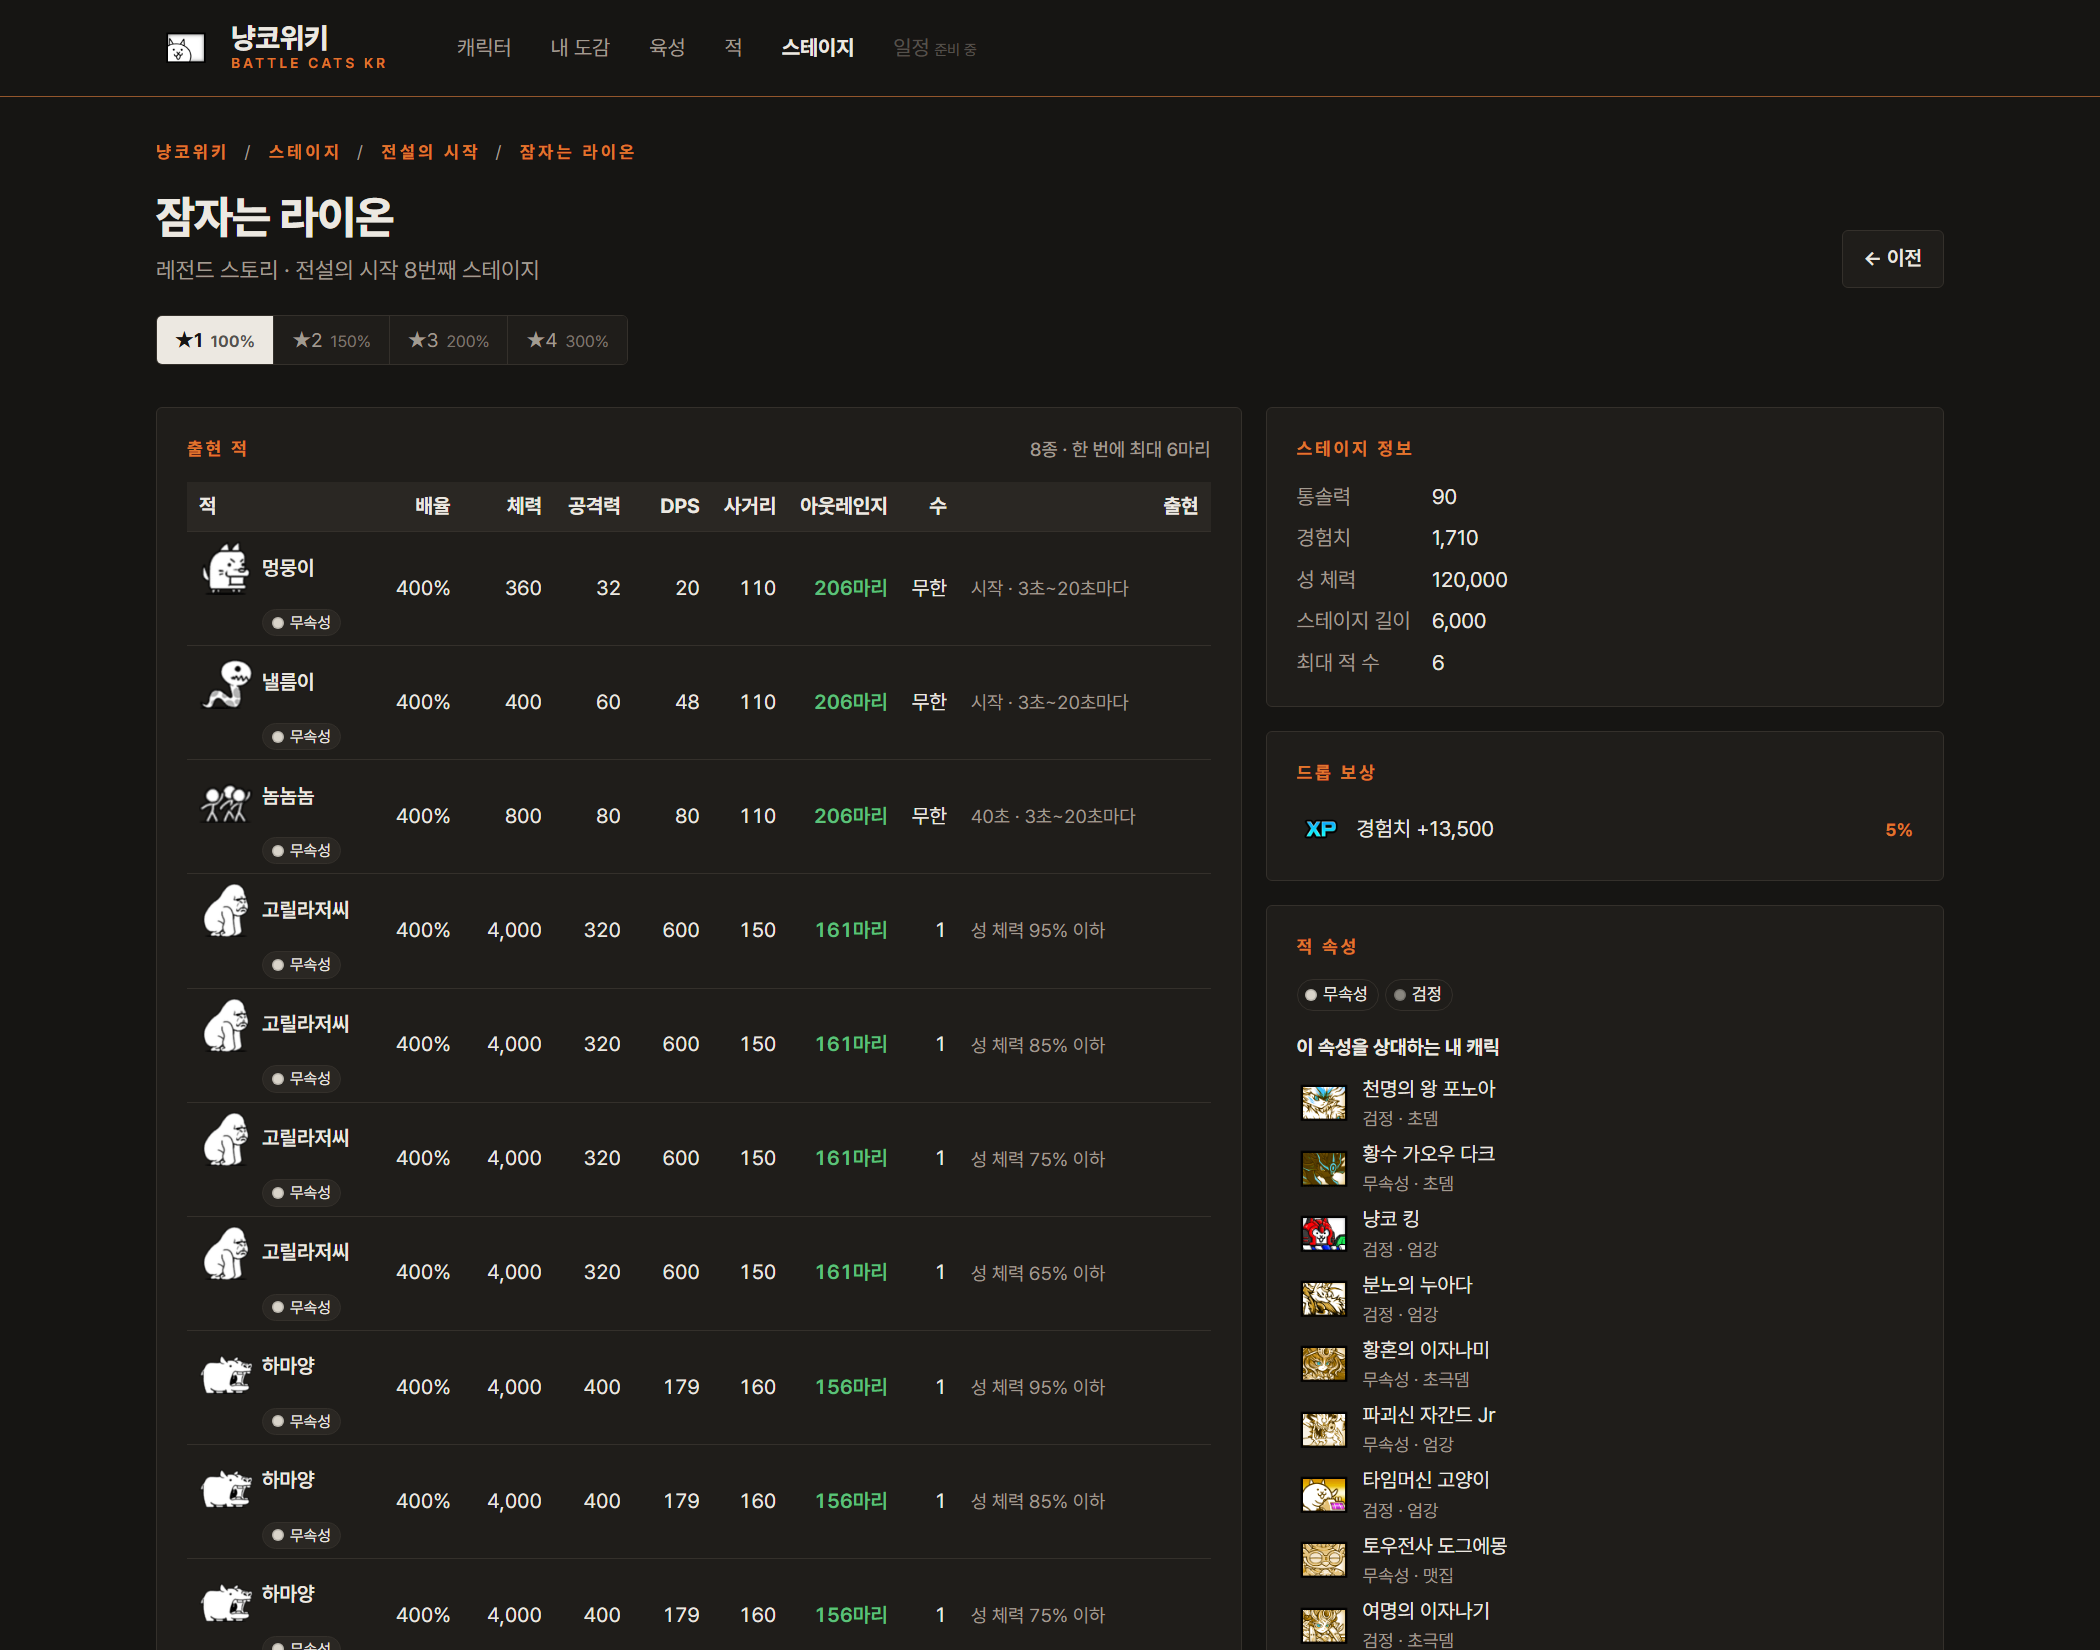
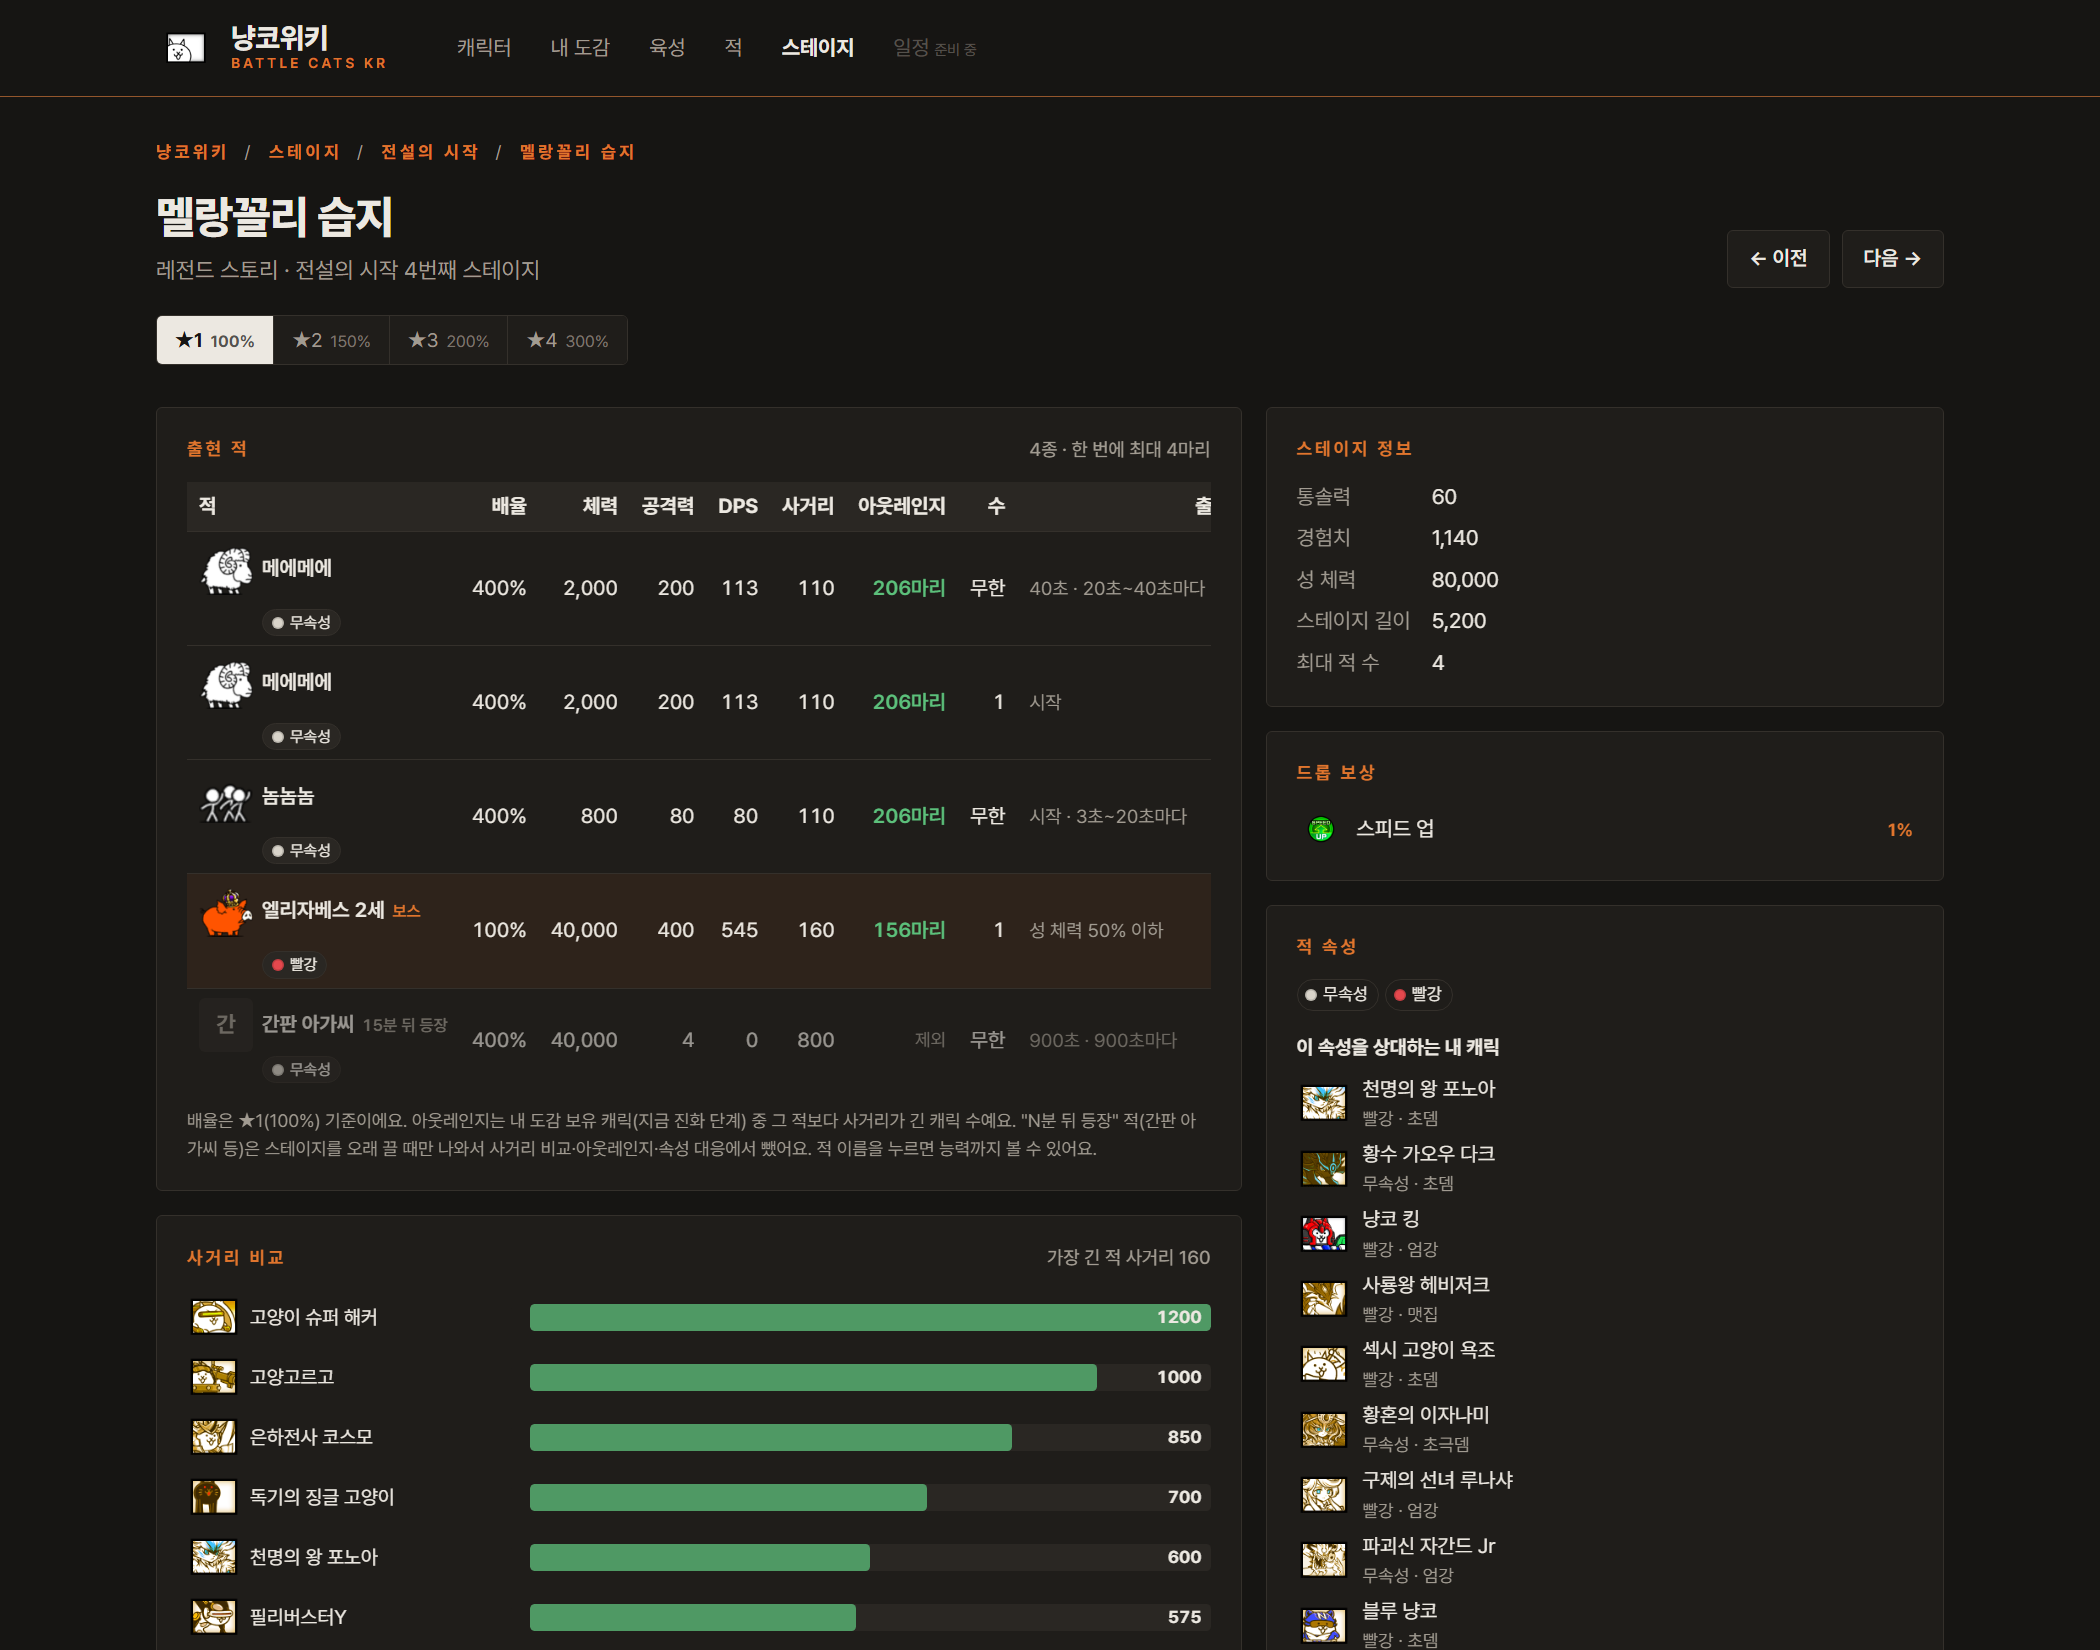
v3.0 피드백: 아이콘 없는 적, 오래 기다려야 나오는 적, 주는 돈 정수
- 아이콘 없는 적(간판 아가씨 #21, 이름 없는 적 #747 — 게임 팩에 enemy_icon 자체가 없음)은 이름 첫 글자로 자리 채움
- 900초(27000F) 이상 기다렸다 나오는 적(간판 아가씨 4,061곳, 블랙쿠마 96곳 등 4,152개 스테이지)은 실제 게임 데이터(냥코DB와 동일).
  출현 적 표엔 남기되 "N분 뒤 등장"으로 흐리게 표시하고, 사거리 비교·아웃레인지·가장 긴 적 사거리·속성 대응 계산에서는 뺌
- 적 상세 주는 돈을 정수로 (보물 최대 ×3.95, 게임처럼 버림)
- README 스테이지 스크린샷 다시 찍음

diff --git a/docs/js/stage.js b/docs/js/stage.js
@@ -13,6 +13,9 @@ const loadUnits = () => unitsPromise ??= fetch("data/units.json").then(r => r.js
 const PREFIX = { 3: "MS", 20: "Z", 21: "Z", 22: "Z", 23: "Z", 0: "N", 13: "NA", 34: "ND", 1: "S", 2: "C", 24: "A", 27: "CA", 25: "H", 31: "Q", 4: "RE", 14: "B",
                  7: "V", 36: "SR", 37: "G", 30: "DM", 33: "L", 6: "T", 11: "R", 12: "M" };
 const codeOf = mid => PREFIX[Math.floor(mid / 1000)];
+// 900초(27000F) 이상 기다렸다 나오는 적 (간판 아가씨 등 시간 끌기 방지용): 출현 적 표엔 남기고
+// 사거리 비교·아웃레인지·가장 긴 적 사거리·속성 대응 계산에서는 뺀다
+const LATE_F = 27000;
 const sec = f => { const s = (f / 30).toFixed(2).replace(/\.?0+$/, ""); return `${s}초`; };
 const num = n => Math.floor(n).toLocaleString();
 const failed = (root, what) => { root.innerHTML = `<div class="empty">${what} 데이터를 불러오지 못했어요. 새로고침해 주세요.</div>`; };
@@ -122,6 +125,8 @@ function paint(root, idx, mid, m, s, byId) {
              dps: cyc ? Math.floor(atk * 30 / cyc) : null };
   });
   const enemies = [...new Map(rows.filter(r => r.e).map(r => [r.eid, r.e])).values()];
+  const inPlay = [...new Map(rows.filter(r => r.e && r.first < LATE_F).map(r => [r.eid, r.e])).values()];
+  const hasLate = rows.some(r => r.first >= LATE_F);
   const traits = [...new Set(enemies.flatMap(e => e.traits))];
   const pctText = r => r.hpPct === r.atkPct ? `${num(r.hpPct)}%` : `체력 ${num(r.hpPct)}% · 공격 ${num(r.atkPct)}%`;
   const spawn = r => {
@@ -140,15 +145,15 @@ function paint(root, idx, mid, m, s, byId) {
       <div>
         <div class="panel"><h2>출현 적 <span class="ctl">${enemies.length}종 · 한 번에 최대 ${s.max}마리</span></h2>
           <div class="table-wrap"><table class="en-table"><thead><tr><th>적</th><th>배율</th><th>체력</th><th>공격력</th><th>DPS</th><th>사거리</th><th title="내 도감 보유 캐릭 중 이 적보다 사거리가 긴 캐릭 수">아웃레인지</th><th>수</th><th>출현</th></tr></thead><tbody>
-          ${rows.map(r => `<tr class="${r.boss ? "boss" : ""}">
-            <td class="en-name"><a href="#/enemy/${r.eid}">${enemyIcon(r.e, "sm")}<span>${esc(r.e?.name ?? `적 #${r.eid}`)}${r.boss ? `<em>보스</em>` : ""}${r.isBase ? `<em>성</em>` : ""}</span></a>
+          ${rows.map(r => `<tr class="${r.boss ? "boss" : ""}${r.first >= LATE_F ? " late" : ""}">
+            <td class="en-name"><a href="#/enemy/${r.eid}">${enemyIcon(r.e, "sm")}<span>${esc(r.e?.name ?? `적 #${r.eid}`)}${r.boss ? `<em>보스</em>` : ""}${r.isBase ? `<em>성</em>` : ""}${r.first >= LATE_F ? `<em class="late-tag">${Math.round(r.first / 1800)}분 뒤 등장</em>` : ""}</span></a>
               ${r.e?.traits.length ? `<span class="trs">${r.e.traits.map(t => `<span class="tr mini" style="--c:var(--tr-${t})">${t}</span>`).join("")}</span>` : ""}</td>
             <td>${pctText(r)}</td><td>${num(r.hp)}</td><td>${num(r.atk)}</td><td>${r.dps == null ? "-" : num(r.dps)}</td>
             <td>${r.e ? r.e.range + (r.e.ld ? `<small> (${Math.min(r.e.ld[0], r.e.ld[0] + r.e.ld[1])}~${Math.max(r.e.ld[0], r.e.ld[0] + r.e.ld[1])})</small>` : "") : "-"}</td>
-            <td class="outr" data-r="${r.e?.range ?? 0}">-</td>
+            ${r.first >= LATE_F ? `<td class="skip" title="오래 기다려야 나오는 적이라 사거리 비교에서 뺐어요">제외</td>` : `<td class="outr" data-r="${r.e?.range ?? 0}">-</td>`}
             <td>${r.count === 0 ? "무한" : r.count}</td><td class="spawn">${spawn(r)}</td></tr>`).join("")}
           </tbody></table></div>
-          <p class="note">배율은 ${m.stars.length > 1 ? `★${st.star + 1}(${starPct}%)` : "기본"} 기준이에요. 아웃레인지는 내 도감 보유 캐릭(지금 진화 단계) 중 그 적보다 사거리가 긴 캐릭 수예요. 적 이름을 누르면 능력까지 볼 수 있어요.</p>
+          <p class="note">배율은 ${m.stars.length > 1 ? `★${st.star + 1}(${starPct}%)` : "기본"} 기준이에요. 아웃레인지는 내 도감 보유 캐릭(지금 진화 단계) 중 그 적보다 사거리가 긴 캐릭 수예요.${hasLate ? " \"N분 뒤 등장\" 적(간판 아가씨 등)은 스테이지를 오래 끌 때만 나와서 사거리 비교·아웃레인지·속성 대응에서 뺐어요." : ""} 적 이름을 누르면 능력까지 볼 수 있어요.</p>
         </div>
         <div class="panel" id="rangeCmp"><h2>사거리 비교 <span class="ctl">이 스테이지 적 vs 내 캐릭</span></h2><div class="empty">불러오는 중…</div></div>
       </div>
@@ -170,7 +175,7 @@ function paint(root, idx, mid, m, s, byId) {
     </div>`;
   document.title = `${s.n} - 냥코위키`;
   root.querySelectorAll("[data-star]").forEach(b => b.onclick = () => { st.star = +b.dataset.star; paint(root, idx, mid, m, s, byId); });
-  paintMine(root, rows, enemies, traits);
+  paintMine(root, rows, inPlay, [...new Set(inPlay.flatMap(e => e.traits))]);
 }
 
 // 내 캐릭(내 도감 보유, 지금 진화 단계)의 사거리·속성 대응 — 내 도감이 비어 있으면 안내만

diff --git a/docs/js/enemy.js b/docs/js/enemy.js
@@ -19,8 +19,10 @@ const num = n => Math.floor(n).toLocaleString();
 const f32 = Math.fround;
 // 냥코DB(battlecats-db.com) 적 번호 = 적 ID + 2
 export const dbEnemyUrl = id => `https://battlecats-db.com/enemy/${String(id + 2).padStart(3, "0")}.html`;
+// 아이콘이 게임 데이터에 없는 적(간판 아가씨 등)은 이름 첫 글자로 자리를 채운다
 export const enemyIcon = (e, cls = "") => e?.icon
-  ? `<img class="eicon ${cls}" src="icons/enemy/${e.id}.png" alt="" loading="lazy">` : `<span class="eicon ph ${cls}"></span>`;
+  ? `<img class="eicon ${cls}" src="icons/enemy/${e.id}.png" alt="" loading="lazy">`
+  : `<span class="eicon ph ${cls}" aria-hidden="true">${esc((e?.name || "?").replace(/^이름 없는 적 /, "")[0])}</span>`;
 
 // 배율 적용 (BCU Entity / AtkModelEntity): 체력 = trunc(기본 × 배율), 공격력 = round(기본 × 배율). 배율은 float
 export const enemyHp = (e, pct) => Math.trunc(f32(e.hp * f32(pct / 100)));
@@ -104,7 +106,8 @@ function paint(root, e) {
   const cycleF = enemyCycle(e), tbaF = e.tba * 2;
   const longPre = Math.max(...e.pre), postF = e.anim ? e.anim - longPre : null;
   const dps = cycleF ? Math.floor(total * 30 / cycleF) : null;  // 적 DPS는 버림 (냥코DB·나무위키 적 문서와 같음)
-  const money = v => (Math.round(v * 100) / 100).toLocaleString();
+  // 주는 돈: 보물·연구 최대 ×3.95, 게임처럼 정수 버림 (BCU EEnemy: money = (int)(money + 배수 × 기본))
+  const money = v => Math.floor(v + 1e-9).toLocaleString();
   const F = f => f == null ? "-" : `${num(f)}<span> (${sec(f)})</span>`;
   const ldText = ([a, w]) => `${Math.min(a, a + w)}~${Math.max(a, a + w)}`;
   const multi = hits.length > 1;
@@ -150,7 +153,7 @@ function paint(root, e) {
             <div><small>후딜F</small><b>${F(postF)}</b></div>
             <div><small>넉백당 체력</small><b>${num(hp / Math.max(e.kb, 1))}</b></div>
           </div>
-          <details class="calc-note"><summary>계산 기준</summary><p class="note">스테이지마다 적 배율(%)이 달라요. 체력 = 기본 체력 × 체력 배율, 공격력 = 기본 공격력 × 공격력 배율. F는 프레임(30F = 1초), 공격빈도 = 마지막 타 선딜 + max(공격간격 − 1, 후딜), DPS = 공격력 ÷ 공격빈도. 주는 돈은 보물·연구 최대(×3.95) 기준이에요. 에이리언은 크리스탈을 다 모은 기준이라, 덜 모았으면 별 없는 에이리언은 최대 7배, 별 에이리언은 최대 16배까지 더 세져요.</p></details>
+          <details class="calc-note"><summary>계산 기준</summary><p class="note">스테이지마다 적 배율(%)이 달라요. 체력 = 기본 체력 × 체력 배율, 공격력 = 기본 공격력 × 공격력 배율. F는 프레임(30F = 1초), 공격빈도 = 마지막 타 선딜 + max(공격간격 − 1, 후딜), DPS = 공격력 ÷ 공격빈도. 주는 돈은 보물·연구 최대(×3.95, 소수점 버림) 기준이에요. 에이리언은 크리스탈을 다 모은 기준이라, 덜 모았으면 별 없는 에이리언은 최대 7배, 별 에이리언은 최대 16배까지 더 세져요.</p></details>
         </div>
         <div class="panel">
           <h2>능력</h2>

diff --git a/docs/css/style.css b/docs/css/style.css
@@ -192,7 +192,9 @@ dialog.choose small{color:var(--muted)}
 .mcard .name{font-size:13.5px;max-width:100%}
 .mcard .sub{justify-content:center}
 .eicon{width:64px;height:64px;object-fit:contain;flex:none}
-.eicon.ph{display:inline-block;background:var(--chip);border-radius:var(--radius)}
+.eicon.ph{display:inline-flex;align-items:center;justify-content:center;background:var(--chip);border-radius:var(--radius);color:var(--muted);font-weight:700;font-size:20px}
+.eicon.ph.sm{font-size:15px}
+.eicon.ph.big{font-size:34px}
 .eicon.big{width:96px;height:96px}
 .egrid .mcard img,.egrid .mcard .ph{width:64px;height:64px}
 .tr.mini{font-size:10.5px;padding:0 6px;line-height:1.6}
@@ -228,6 +230,9 @@ dialog.choose small{color:var(--muted)}
 .en-name .trs{display:flex;gap:3px;margin:3px 0 0 42px}
 .en-table td.outr{color:var(--ok);font-weight:600}
 .en-table td.outr.none{color:var(--muted);font-weight:400}
+.en-table tr.late td{opacity:.6}
+.en-table td.skip{color:var(--muted);font-size:12px}
+.en-name em.late-tag{color:var(--muted)}
 .en-table td.spawn{font-size:12.5px;color:var(--muted);text-align:left;white-space:normal;min-width:150px}
 .rewards{display:flex;flex-direction:column;gap:6px}
 .reward{display:flex;align-items:center;gap:8px;font-size:14px}
